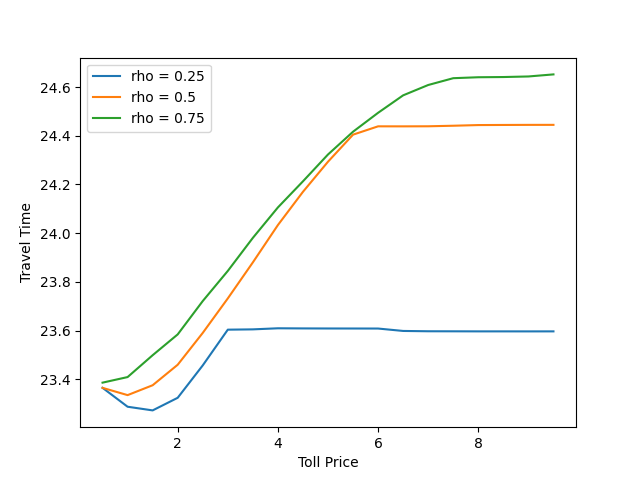
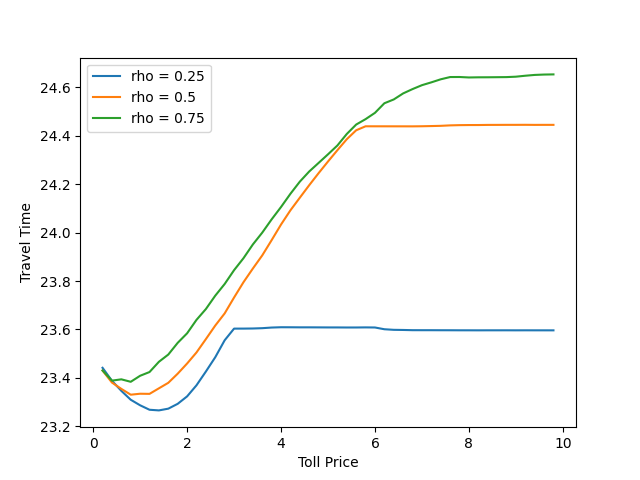
add example for non-convex/concave total travel time given uniform demand & linear cost

diff --git a/visualize_single.py b/visualize_single.py
@@ -13,6 +13,25 @@ plt.legend()
 plt.savefig("vis.png")
 plt.show()
 
+#for rho in [0.25, 0.5, 0.75]:
+#    df_vis = df[df["rho"] == rho]
+#    plt.plot(df_vis["x2"], df_vis["x1"], label = f"rho = {rho}")
+#    plt.axline((0, rho), slope = -1.25, color = "red", alpha = 0.3)
+#plt.xlabel("% People Carpool")
+#plt.ylabel("% People Paying Tolls")
+#plt.legend()
+##plt.savefig("vis_o.png")
+#plt.show()
+
+for rho in [0.25, 0.5, 0.75]:
+    df_vis = df[df["rho"] == rho]
+    plt.plot(df_vis["tau"], df_vis["x3"], label = f"rho = {rho}")
+plt.xlabel("Toll Price")
+plt.ylabel("% People Using Ordinary Lane")
+plt.legend()
+#plt.savefig("vis_o.png")
+plt.show()
+
 #rho = 0.25
 #df_vis = df[df["rho"] == rho]
 #for regime in ["A1", "A2", "B"]:
@@ -23,4 +42,27 @@ plt.show()
 #plt.ylabel("Travel Time")
 #plt.title(f"Rho = {rho}")
 #plt.legend()
+#plt.show()
+
+#rho = 0.25
+#A = 2.5
+#df_vis = df[df["rho"] == rho]
+#lb = (1 - rho) / (1 - rho + A * rho)
+#ub = (1 - rho + A * rho * (1 - rho) ** 0.5) / (1 - rho + A * rho)
+#x = df_vis["x3"]
+#y = df_vis["x2"]
+#x_data = np.linspace(lb, ub, 100)
+#lo = (x_data - (1 - rho)) ** 2 / ((1 - rho) * (1 - 1/A) * (1 - x_data))
+#hi = 1 - x_data
+#x_pos = np.argmax(hi <= lo)
+#plt.vlines(x = lb, ymin = lo[0], ymax = hi[0], color = "blue")
+##plt.axvline(x = ub, color = "blue")
+#plt.plot(x_data[:x_pos], lo[:x_pos], color = "blue")
+#plt.plot(x_data[:x_pos], hi[:x_pos], color = "blue")
+#plt.fill_between(x_data[:x_pos], lo[:x_pos], hi[:x_pos], color = "blue", alpha = 0.3)
+#plt.scatter(x, y, color = "red")
+#plt.xlabel("Fraction of People Ordinary Lane")
+#plt.ylabel("Fraction of People Carpool")
+#plt.title(f"Rho = {rho}")
+#plt.savefig("region.png")
 #plt.show()

diff --git a/script.py b/script.py
@@ -16,7 +16,7 @@ LBETA = 0
 A = 2.5
 D = 115.13 #GAMMA_BAR * BETA_BAR
 CAPACITY = 140
-TIME = 22
+TIME = 30#22
 INT_GRAN = 100
 F_BETA_GAMMA_LST = None
 
@@ -25,8 +25,8 @@ var = multivariate_normal(mean = [(UBETA + LBETA) / 2, (UGAMMA + LGAMMA) / 2], c
 def cost(flow, rho):
     r = flow / (CAPACITY * rho)
     a = 0.15
-    b = 4
-    return TIME * (1 + a * (flow / (CAPACITY * rho)) ** b) #r / (CAPACITY * rho - flow)
+    b = 1#4
+    return TIME * (1 + a * (flow / (CAPACITY * rho)) ** b)
 
 def c_o(x3, rho):
     flow = x3 * D
@@ -37,13 +37,13 @@ def c_h(x1, x2, rho):
     return cost(flow, rho)
 
 def f(beta, gamma):
-#    return 1 / (UBETA * UGAMMA)
-    coef = 1 / (UBETA * UGAMMA)
-    if int(gamma) % 4 == 1:
-        coef *= 4
-    else:
-        coef = 0
-    return coef
+    return 1 / (UBETA * UGAMMA)
+#    coef = 1 / (UBETA * UGAMMA)
+#    if int(gamma) % 4 == 1:
+#        coef *= 4#16/7
+#    else:
+#        coef *= 0#4/7
+#    return coef
 #    return var.pdf([beta, gamma])
 
 def populate_f_beta_gamma_lst():
@@ -152,6 +152,7 @@ def solve_regime(rho, tau, max_itr = 1000, eta = 0.1, eps = 1e-7, decay_sched = 
 
 def get_congestion(x1, x2, x3, rho):
     return x3 * c_o(x3, 1 - rho) + (x1 + x2) * c_h(x1, x2, rho)
+#    return  x3 * c_o(x3, 1 - rho) + (x1 + x2 / A) * c_h(x1, x2, rho)
 
 def get_revenue(x1, tau):
     return x1 * tau * D
